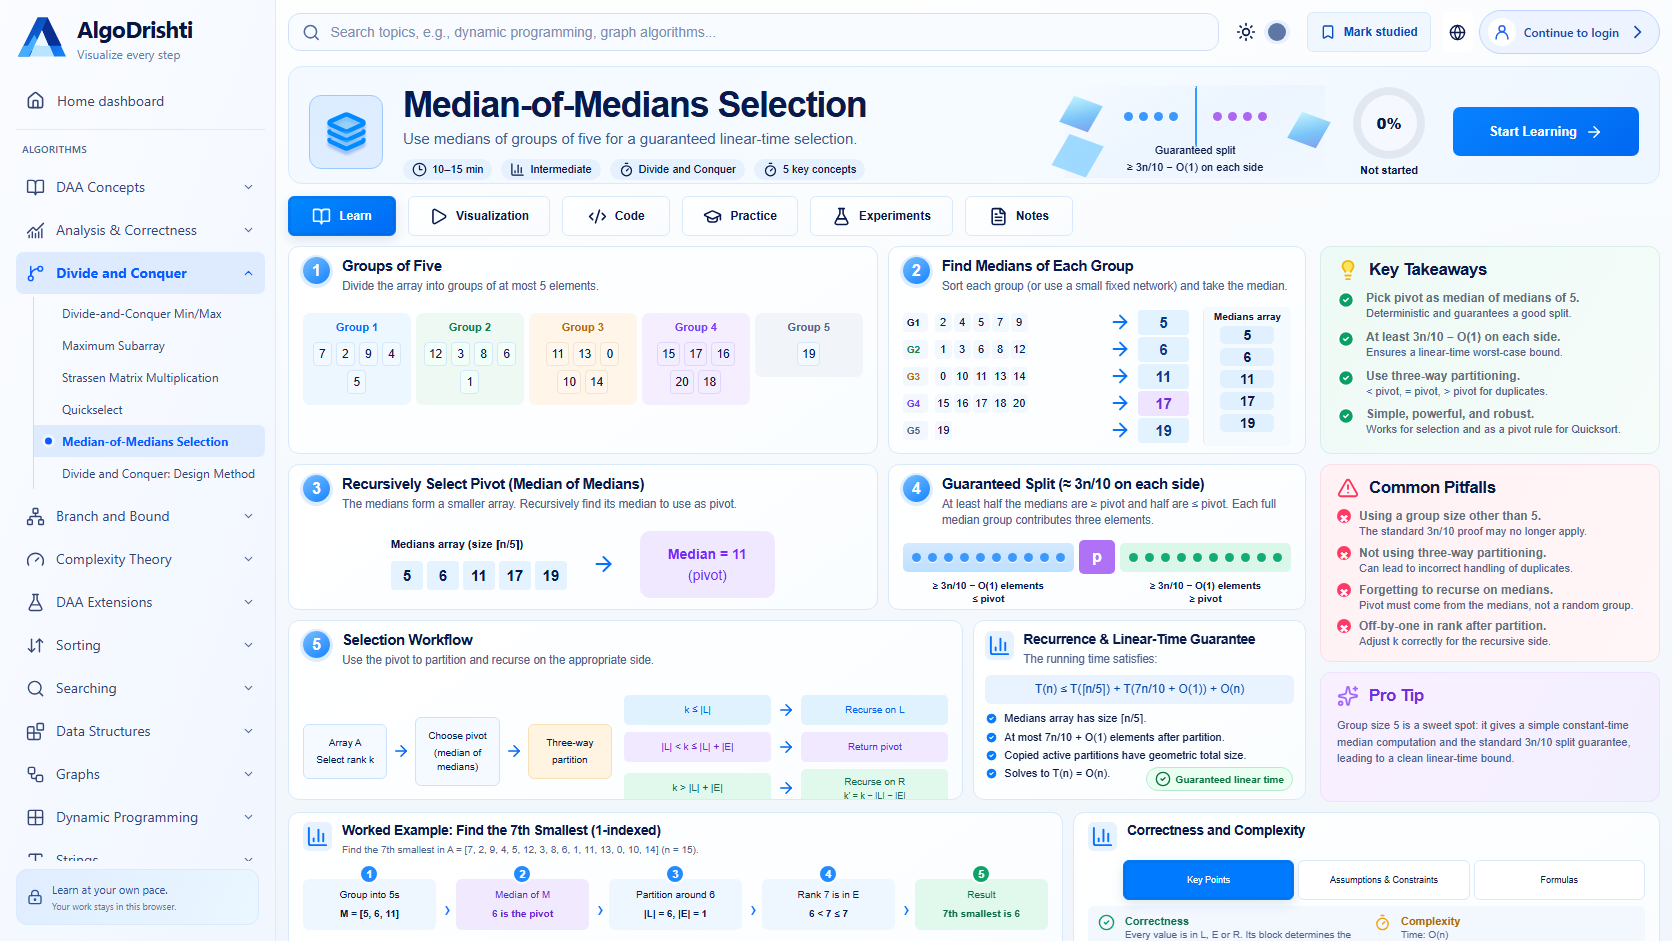
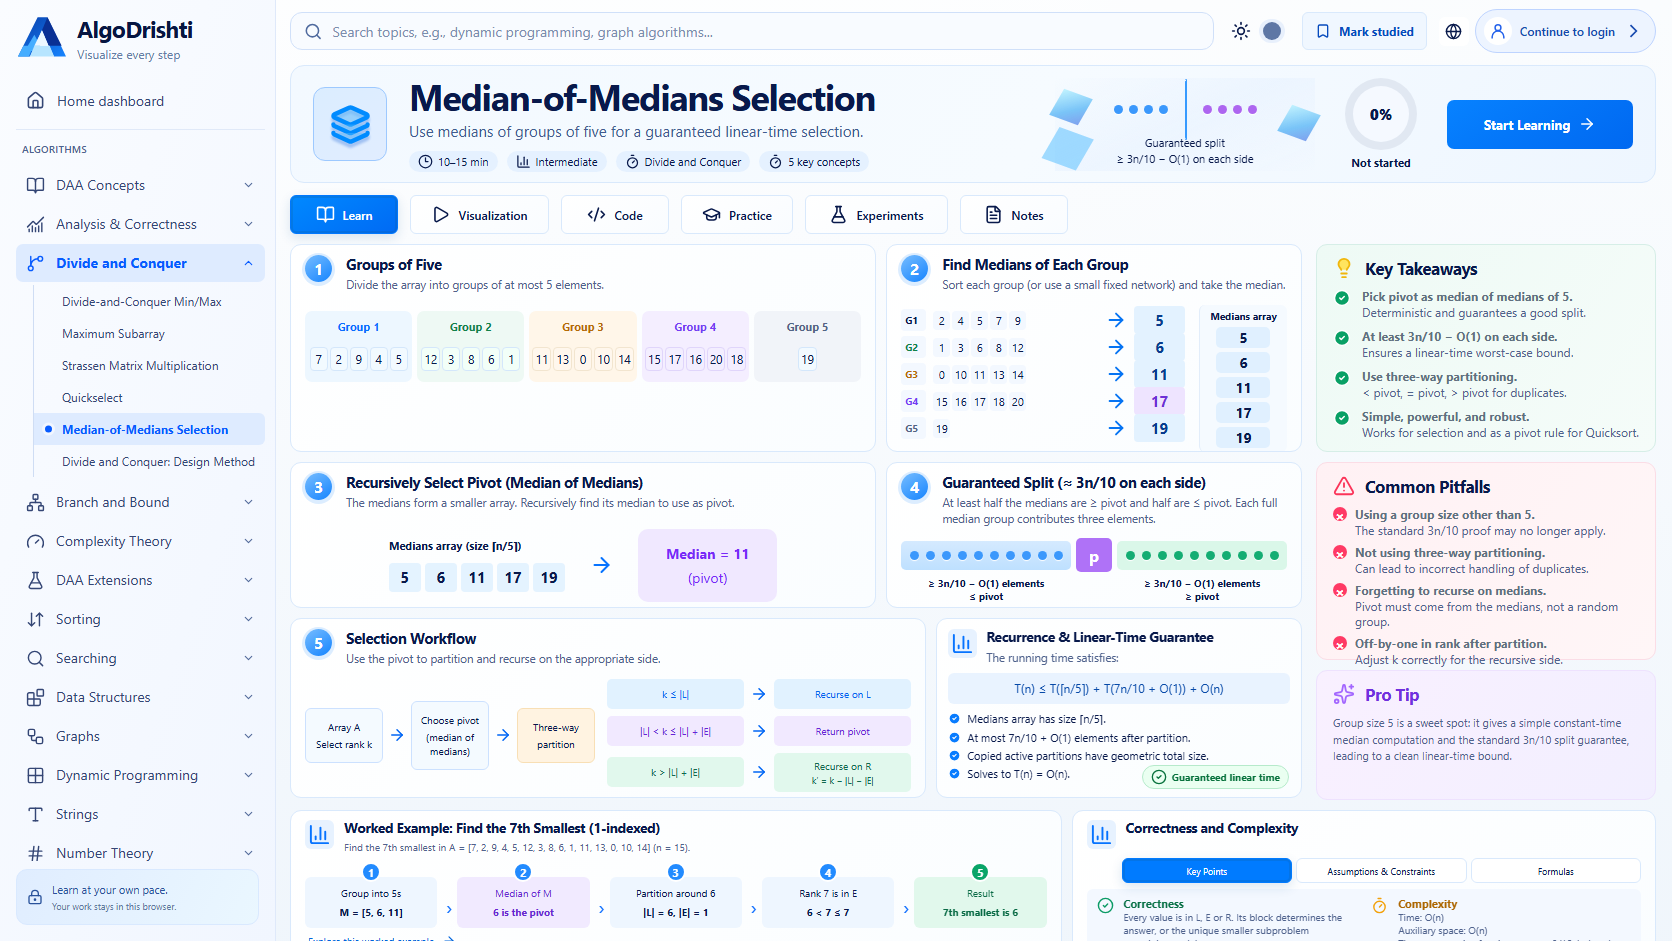
Update median lesson refinements and localization reports

diff --git a/src/daa/median-mockup.css b/src/daa/median-mockup.css
@@ -8,7 +8,7 @@
   display: block;
   margin: 0;
   color: var(--mom-ink);
-  font-family: Arial, 'Segoe UI', sans-serif;
+  font-family: inherit;
   font-size: 13px;
   min-width: 0;
 }
@@ -16,6 +16,7 @@
   box-sizing: border-box;
 }
 .mom-page button {
+  min-height: 0;
   cursor: pointer;
   font: inherit;
   color: inherit;
@@ -161,8 +162,8 @@
   display: grid;
   grid-template-columns: 74px minmax(0, 1fr) 260px 88px 186px;
   align-items: center;
-  gap: 20px;
-  padding: 17px 20px;
+  gap: 22px;
+  padding: 10px 22px;
   height: 118px;
   border: 1px solid var(--mom-line);
   border-radius: 14px;
@@ -340,7 +341,7 @@
 .mom-panel > header {
   display: flex;
   align-items: flex-start;
-  gap: 12px;
+  gap: 14px;
   margin-bottom: 12px;
 }
 .mom-panel > header > svg {
@@ -404,7 +405,7 @@
 .mom-group {
   flex: 1;
   min-width: 0;
-  padding: 8px 5px 11px;
+  padding: 8px 3px 11px;
   background: #edf7ff;
   border-radius: 7px;
 }
@@ -413,7 +414,7 @@
   text-align: center;
   font-size: 11px;
   color: #086eff;
-  padding-bottom: 9px;
+  padding-bottom: 13px;
 }
 .mom-numbers {
   display: flex;
@@ -434,6 +435,24 @@
   min-width: 19px;
   line-height: 1;
   white-space: nowrap;
+}
+.mom-groups-panel .mom-numbers {
+  gap: 2px;
+  flex-wrap: nowrap;
+}
+.mom-groups-panel .mom-numbers > span {
+  min-width: 18px;
+  padding: 5px 2px;
+}
+.mom-last-row {
+  grid-column: 1/-1;
+  display: grid;
+  grid-template-columns: 1.74fr 1fr;
+  gap: 10px;
+  min-width: 0;
+}
+.mom-last-row > .mom-panel {
+  grid-column: auto;
 }
 .tone-1 {
   background: #eef9f4;
@@ -673,7 +692,7 @@
   display: flex;
   align-items: center;
   gap: 12px;
-  margin-top: 26px;
+  margin-top: 8px;
   font-size: 10px;
 }
 .mom-flow-start {
@@ -856,7 +875,7 @@
   display: flex;
   flex-direction: column;
   gap: 1px;
-  font-size: 11px;
+  font-size: 12px;
   line-height: 1.25;
 }
 .mom-tip-row p > b {
@@ -1293,8 +1312,8 @@
   .app-shell:has(.mom-page) {
     grid-template-columns: 276px minmax(0, 1fr);
   }
-  .workspace:has(> .mom-page) {
-    padding: 10px 16px 0 14px;
+  .app-shell .workspace:has(.mom-page) {
+    padding: 11px 16px 0 14px;
     display: block;
   }
   .app-shell:has(.mom-page) .sidebar-header {
@@ -1312,7 +1331,7 @@
     font-size: 12px;
   }
   .app-shell:has(.mom-page) .sidebar-category-toggle {
-    min-height: 42px;
+    min-height: 38px;
     font-size: 14px;
   }
   .app-shell:has(.mom-page) .sidebar-algorithm {
@@ -1444,7 +1463,7 @@
   }
 }
 @media (max-width: 1120px) {
-  .workspace:has(> .mom-page) {
+  .app-shell .workspace:has(.mom-page) {
     padding: 58px 14px 10px;
     display: block;
   }
@@ -1615,6 +1634,10 @@
     padding: 8px 12px;
   }
   .mom-main-grid {
+    display: flex;
+    flex-direction: column;
+  }
+  .mom-last-row {
     display: flex;
     flex-direction: column;
   }

diff --git a/tests/visual/median-mockup.spec.ts b/tests/visual/median-mockup.spec.ts
@@ -13,7 +13,7 @@ test('017 opens the reference Learn dashboard with all teaching components', asy
   const pageRoot = page.locator('.mom-page')
   await expect(pageRoot.getByRole('heading', { name: 'Median-of-Medians Selection', exact: true })).toBeVisible()
   await expect(pageRoot.getByRole('button', { name: 'Learn', exact: true })).toHaveAttribute('aria-pressed', 'true')
-  await expect(pageRoot.locator('.mom-main-grid>.mom-panel')).toHaveCount(6)
+  await expect(pageRoot.locator('.mom-main-grid .mom-panel')).toHaveCount(6)
   await expect(pageRoot.locator('.mom-group-list>.mom-group')).toHaveCount(5)
   await expect(pageRoot.getByRole('heading', { name: 'Key Takeaways', exact: true })).toBeVisible()
   await expect(pageRoot.getByRole('heading', { name: 'Common Pitfalls', exact: true })).toBeVisible()

diff --git a/tests/visual/target-ui.spec.ts b/tests/visual/target-ui.spec.ts
@@ -19,7 +19,7 @@ test.describe('numbered target UI inventory', () => {
       const visual = page.locator(`.target-visual[data-target="${target.number}"]`)
       await expect(visual).toBeVisible()
       if (target.number === 17) {
-        await expect(visual.locator('.mom-main-grid>.mom-panel')).toHaveCount(6)
+        await expect(visual.locator('.mom-main-grid .mom-panel')).toHaveCount(6)
         await expect(visual.locator('.mom-worked-example')).toContainText('7th smallest is 6')
         await page.screenshot({ path: resolve('artifacts/visual-qa/final/017--deterministic-selection.png'), fullPage: false })
         await visual.getByRole('button', { name: 'Visualization', exact: true }).click()
